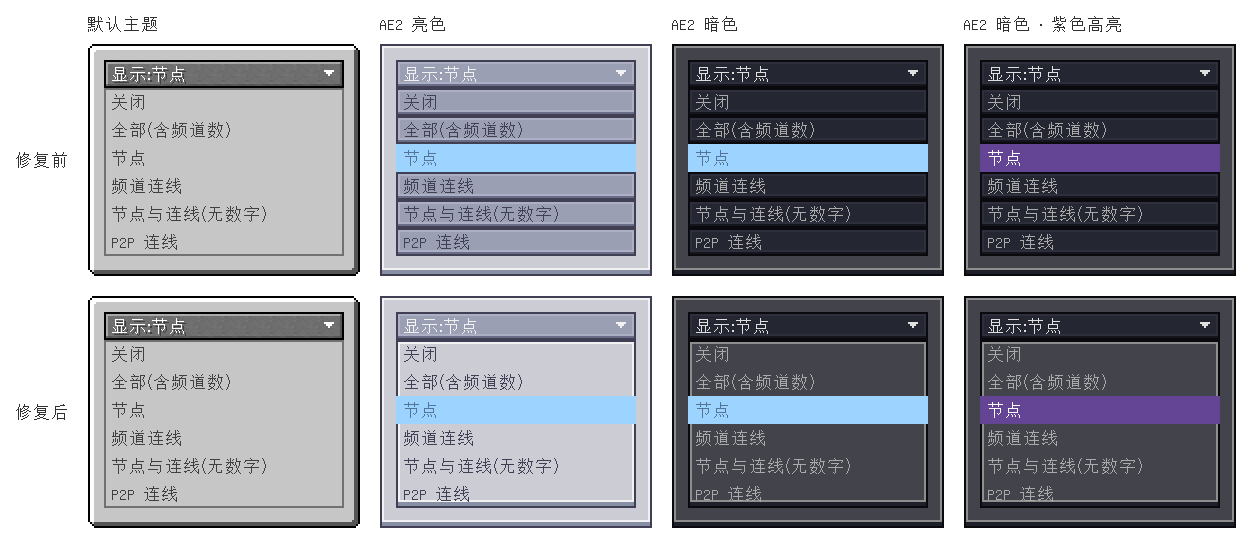
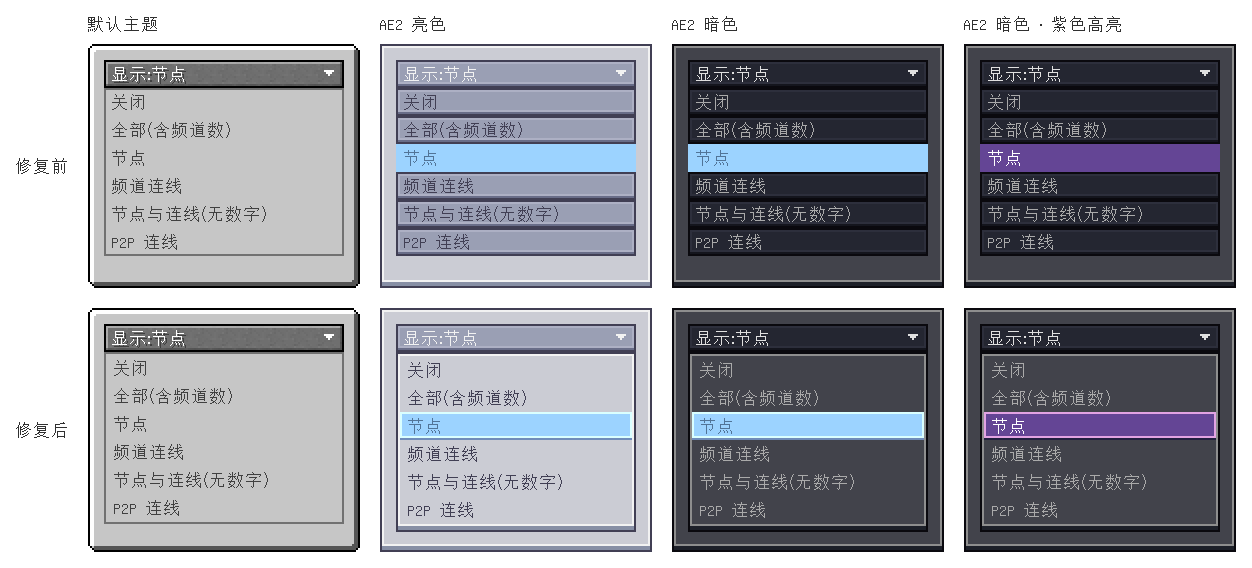
AE2 主题：下拉菜单选项缩进到边框内，选中项用列表选中行样式
MUI2 菜单的选项铺满整个面板，停留高亮会压住面板边框；CycleDropdown 按主题给菜单留出边框宽度的内边距。

diff --git a/src/main/java/com/gtnllib/gui/theme/AE2Theme.java b/src/main/java/com/gtnllib/gui/theme/AE2Theme.java
@@ -83,7 +83,7 @@ public class AE2Theme {
         SWITCH_LABEL_Y = 2, SCROLLBAR_WIDTH = 7, INSET_TOP = 3, INSET_EDGE = 1, BIG_SCROLLER_WIDTH = 12,
         SCROLLER_HEIGHT = 15, RADIO_SIZE = 14, RADIO_LABEL_X = 16, RADIO_LABEL_Y = 3, LIST_ROW_HEIGHT = 22,
         PROGRESS_WIDTH = 6, PROGRESS_HEIGHT = 18, BUTTON_BAR_MARGIN = 2, BUTTON_BAR_SPACING = 6, UPGRADE_PADDING = 5,
-        UPGRADE_ROWS = 8, VALIDATION_ICON_SIZE = 8;
+        UPGRADE_ROWS = 8, VALIDATION_ICON_SIZE = 8, PANEL_EDGE = 2, PANEL_BOTTOM_EDGE = 4;
     private static final String ROOT = "textures/gui/skin/";
     private static final ResourceLocation AE2_LEGACY_STATES = new ResourceLocation(
         "appliedenergistics2",
@@ -915,7 +915,11 @@ public class AE2Theme {
             palette = palette(colors);
             legacyStates = texture(folder, "legacy_states");
             legacyTerminal = texture(folder, "legacy_terminal");
-            skin = ThemeSkin.NONE.with(Part.PANEL, skin(folder, "panel", PANEL_SIZE, PANEL_SIZE).border(2, 2, 2, 4))
+            skin = ThemeSkin.NONE
+                .with(
+                    Part.PANEL,
+                    skin(folder, "panel", PANEL_SIZE, PANEL_SIZE)
+                        .border(PANEL_EDGE, PANEL_EDGE, PANEL_EDGE, PANEL_BOTTOM_EDGE))
                 .with(
                     Part.CARD,
                     skin(folder, "inset", INSET_WIDTH, INSET_HEIGHT)
@@ -925,7 +929,15 @@ public class AE2Theme {
                 .with(Part.SLIDER_FILL, skin(folder, "slider_fill", FILL_SIZE, FILL_SIZE).border(0, 1, 0, 0))
                 .with(Part.SLIDER_TAG, skin(folder, "slider_tag", TAG_WIDTH, TAG_HEIGHT).border(1, 2, 1, 2))
                 .with(Part.DIVIDER, skin(folder, "divider", DIVIDER_WIDTH, DIVIDER_HEIGHT));
-            panel = adaptable(folder, "panel", PANEL_SIZE, PANEL_SIZE, 2, 2, 2, 4);
+            panel = adaptable(
+                folder,
+                "panel",
+                PANEL_SIZE,
+                PANEL_SIZE,
+                PANEL_EDGE,
+                PANEL_EDGE,
+                PANEL_EDGE,
+                PANEL_BOTTOM_EDGE);
             inset = adaptable(
                 folder,
                 "inset",
@@ -1072,24 +1084,23 @@ public class AE2Theme {
         }
 
         private ThemeBuilder<?> menu() {
-            IDrawable row = new Rectangle().color(HIGHLIGHT);
             return new ThemeBuilder<>(menuId).parent(id)
                 .background(IThemeApi.PANEL, panel)
                 .background(IThemeApi.BUTTON, FLAT_OPTION)
-                .hoverBackground(IThemeApi.BUTTON, row)
+                .hoverBackground(IThemeApi.BUTTON, listRowSelected)
                 .textColor(IThemeApi.BUTTON, colors.text)
                 .textHoverColor(IThemeApi.BUTTON, colors.hoverText)
                 .widgetTheme(
                     IThemeApi.TOGGLE_BUTTON,
                     new SelectableTheme.Builder<>().background(FLAT_OPTION)
                         .textColor(colors.text)
-                        .selectedBackground(row)
+                        .selectedBackground(listRowSelected)
                         .selectedTextColor(colors.hoverText))
                 .widgetThemeHover(
                     IThemeApi.TOGGLE_BUTTON,
-                    new SelectableTheme.Builder<>().background(row)
+                    new SelectableTheme.Builder<>().background(listRowSelected)
                         .textColor(colors.hoverText)
-                        .selectedBackground(row)
+                        .selectedBackground(listRowSelected)
                         .selectedTextColor(colors.hoverText));
         }
 

diff --git a/src/main/java/com/gtnllib/gui/widget/CycleDropdown.java b/src/main/java/com/gtnllib/gui/widget/CycleDropdown.java
@@ -5,11 +5,14 @@ import java.util.List;
 import com.cleanroommc.modularui.api.UpOrDown;
 import com.cleanroommc.modularui.api.value.IValue;
 import com.cleanroommc.modularui.widgets.menu.DropdownWidget;
+import com.cleanroommc.modularui.widgets.menu.Menu;
+import com.gtnllib.gui.theme.AE2Theme;
 
 import it.unimi.dsi.fastutil.objects.ObjectArrayList;
 
 public class CycleDropdown<T> extends DropdownWidget<T, CycleDropdown<T>> {
 
+    private static final int MENU_EDGE = 1;
     private final List<T> choices = new ObjectArrayList<>();
 
     public CycleDropdown(String panelName, Class<T> valueType) {
@@ -32,5 +35,15 @@ public class CycleDropdown<T> extends DropdownWidget<T, CycleDropdown<T>> {
         int index = Math.max(0, choices.indexOf(value.getValue()));
         setValue(choices.get(Math.floorMod(index - scrollDirection.modifier, choices.size())), true);
         return true;
+    }
+
+    @Override
+    protected Menu<?> createMenu() {
+        Menu<?> menu = super.createMenu();
+        // MUI2 menus draw their options over the panel border, so keep the options inside it.
+        if (AE2Theme.active(getContext()) != null)
+            menu.padding(AE2Theme.PANEL_EDGE, AE2Theme.PANEL_EDGE, AE2Theme.PANEL_EDGE, AE2Theme.PANEL_BOTTOM_EDGE);
+        else menu.padding(MENU_EDGE);
+        return menu;
     }
 }
